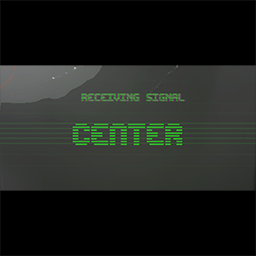
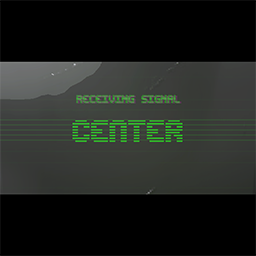
1.1.0

diff --git a/README.md b/README.md
@@ -1,5 +1,5 @@
 # LC-SignalTranslatorAligner
 
-![image](https://github.com/lekakid/LC-SignalTranslatorAligner/assets/1362809/878e7200-cd5a-44ba-abeb-636e39df2559)
+![image](https://github.com/lekakid/LC-SignalTranslatorAligner/assets/1362809/66e914e0-060d-4a34-abb4-13c748af2dff)
 
 Signal translator always display centered text
